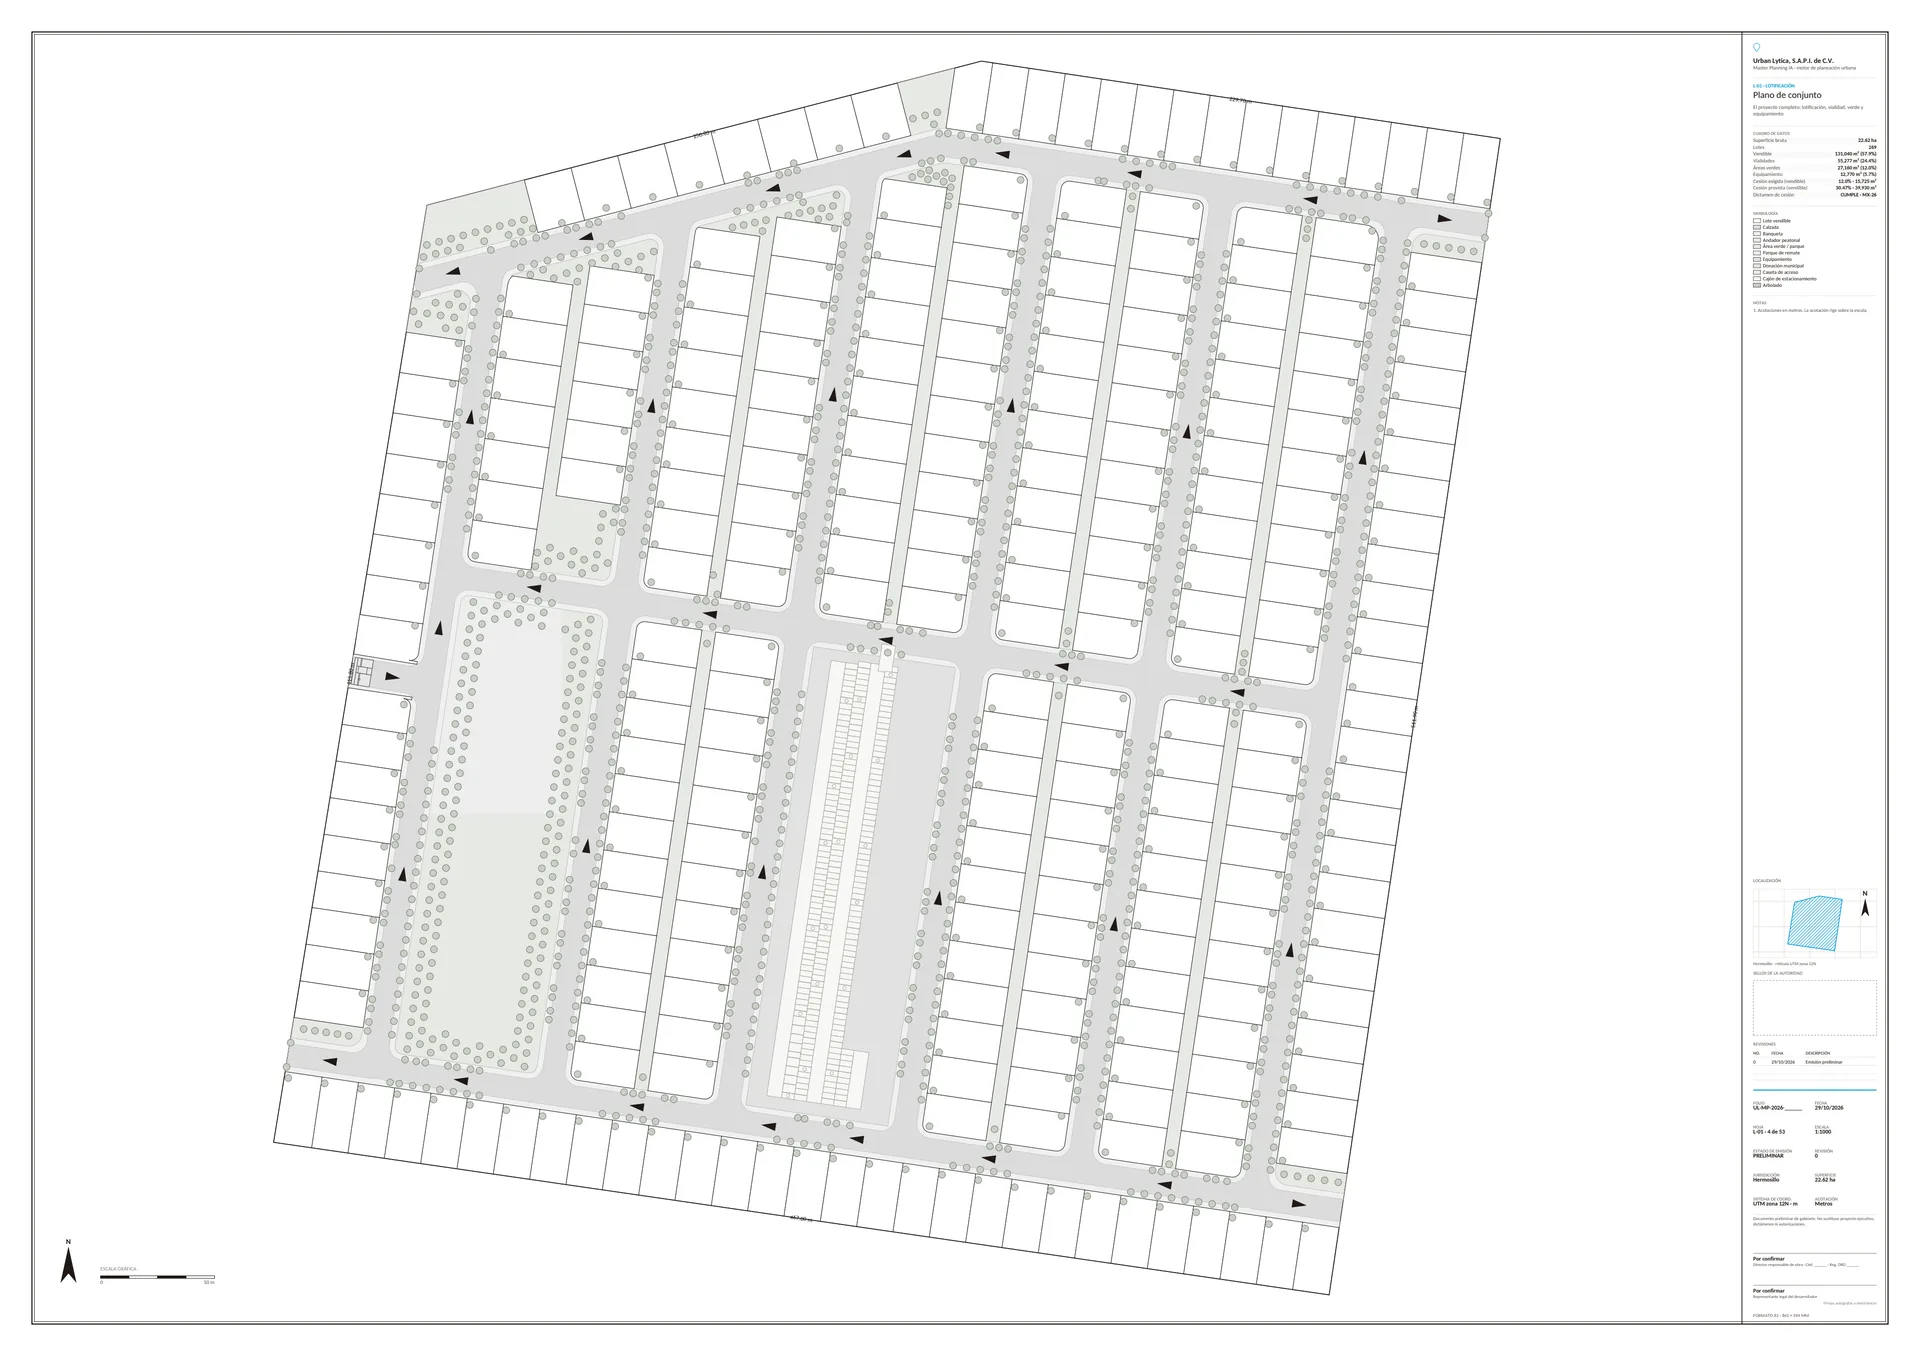
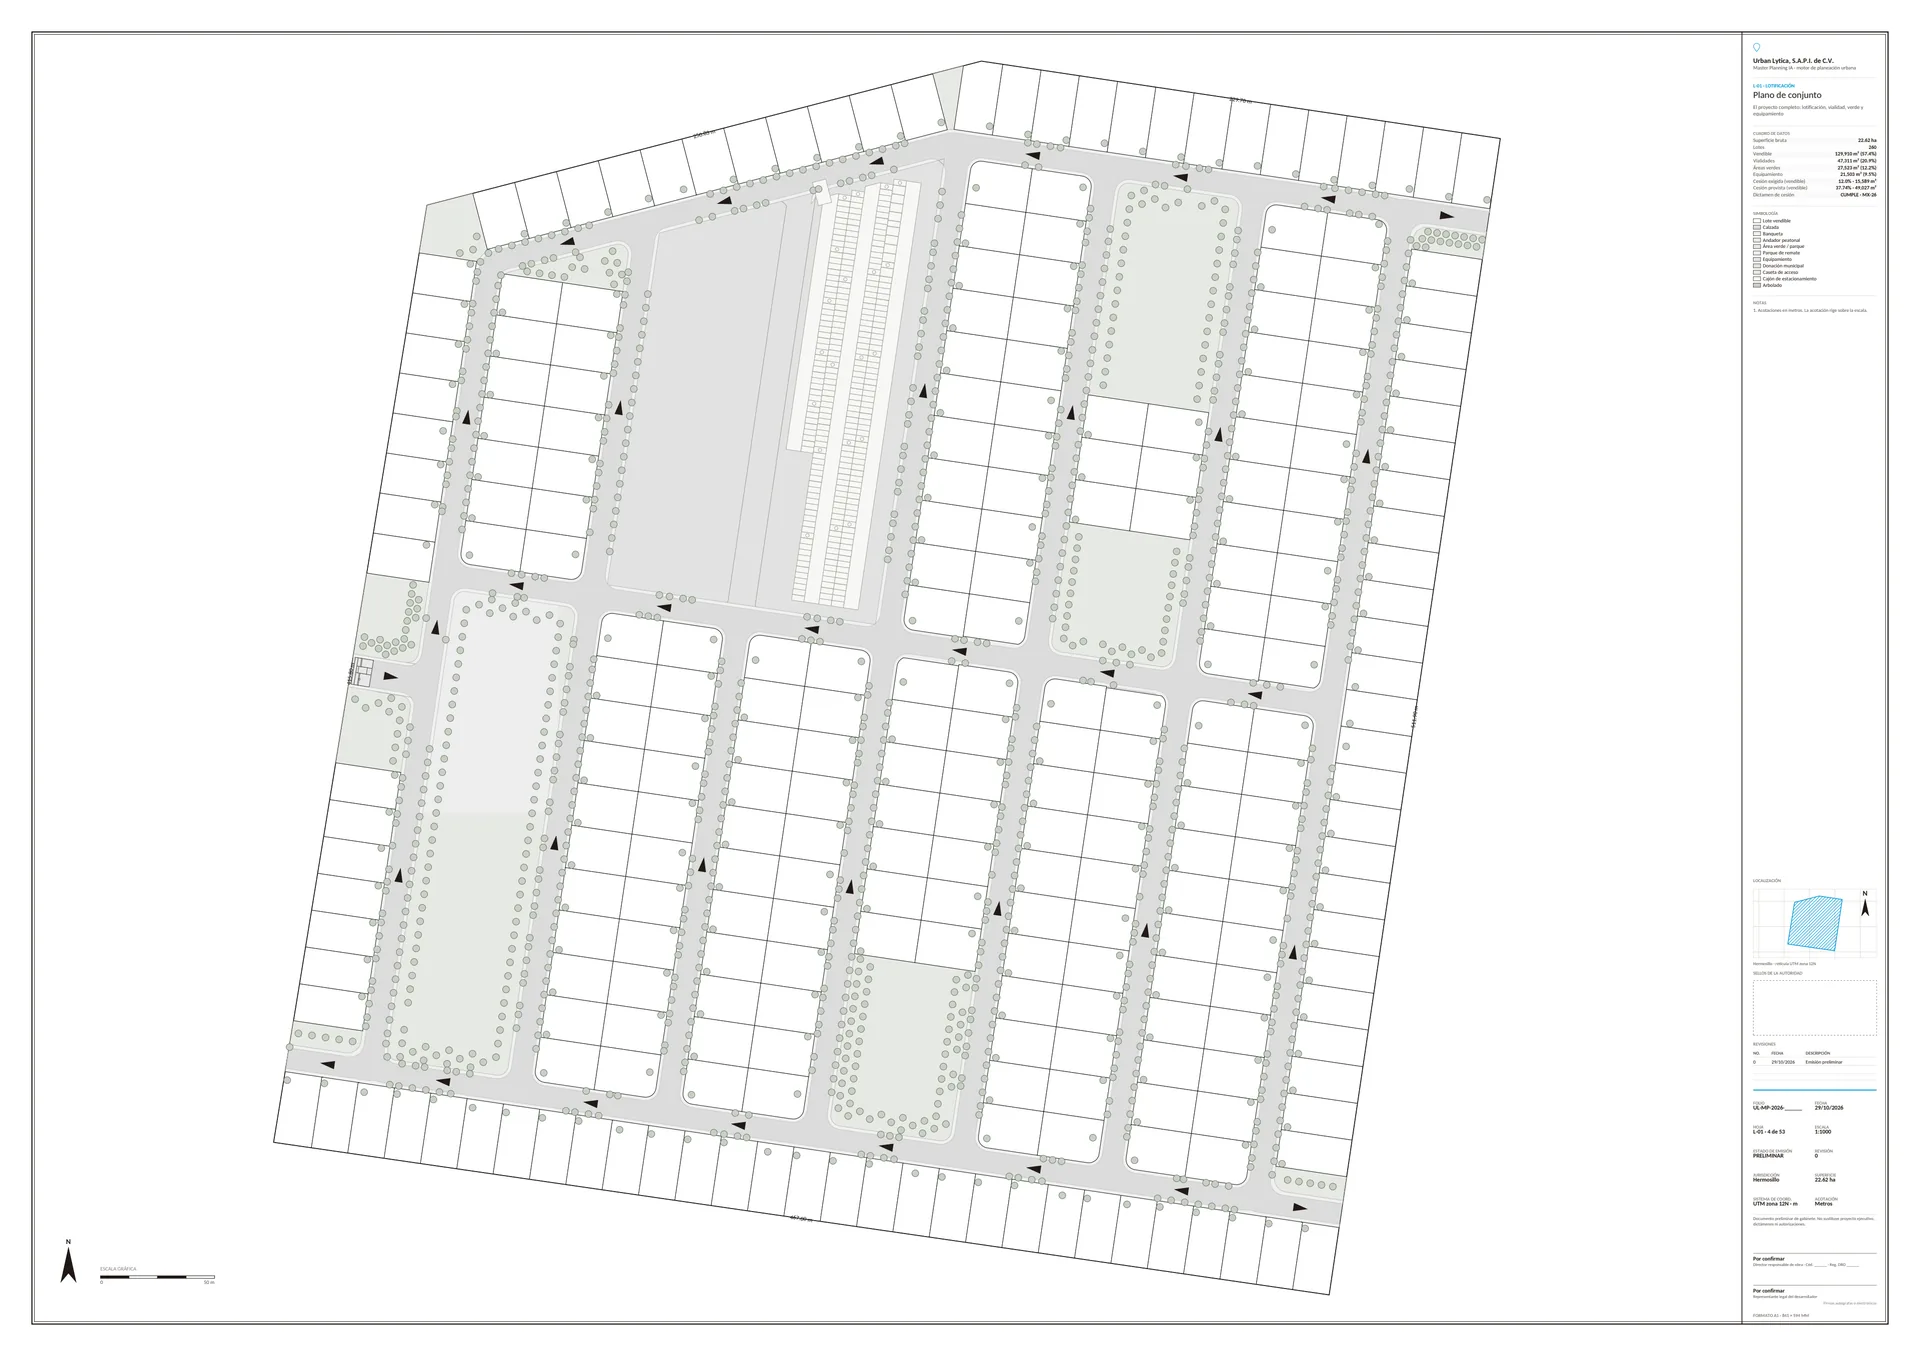
Ejemplo: generación por defecto del motor (260 lotes)
El hero y la lámina L-01 muestran el predio de ejemplo como lo genera
hoy el motor por defecto, sin franja verde entre fondos de lote:
260 lotes, 57.4 % vendible, 20.9 % de vialidad.

Changed region(s): [[0.1562, 0.0619, 0.7812, 0.8982]]

diff --git a/index.html b/index.html
@@ -687,11 +687,11 @@ dialog.legal-doc::backdrop{background:rgba(8,15,24,.62)}
         <img src="assets/producto/hero-plano-1920.webp"
              srcset="assets/producto/hero-plano-1200.webp 1200w, assets/producto/hero-plano-1920.webp 1920w"
              sizes="(max-width: 1240px) 100vw, 1120px" width="1920" height="1200" fetchpriority="high"
-             alt="Captura de la plataforma: condominio de 269 lotes trazado sobre la imagen satelital de un predio de 22.6 hectáreas en Hermosillo, con calles, parques y equipamiento"
+             alt="Captura de la plataforma: condominio de 260 lotes trazado sobre la imagen satelital de un predio de 22.6 hectáreas en Hermosillo, con calles, parques y equipamiento"
              data-i18n-alt="hero.shot.alt">
       </div>
       <figcaption>
-        <span data-i18n-html="hero.shot.cap"><b>Captura real de la plataforma.</b> Predio de 22.6 ha en Hermosillo, Sonora: 269 lotes trazados en régimen de condominio sobre la imagen satelital.</span>
+        <span data-i18n-html="hero.shot.cap"><b>Captura real de la plataforma.</b> Predio de 22.6 ha en Hermosillo, Sonora: 260 lotes trazados en régimen de condominio sobre la imagen satelital.</span>
         <span>29 oct 2026 · © Mapbox · © Maxar</span>
       </figcaption>
     </figure>
@@ -853,9 +853,9 @@ dialog.legal-doc::backdrop{background:rgba(8,15,24,.62)}
           <div class="frame">
             <div class="frame-bar"><span class="frame-title" data-i18n="mod.gen.frame">Vista 2D · indicadores del plan</span></div>
             <div class="kpis">
-              <div><b>57.9%</b><span data-i18n="kpi.sale">vendible</span></div>
-              <div><b>269</b><span data-i18n="kpi.lots">lotes</span></div>
-              <div><b>24.4%</b><span data-i18n="kpi.road">vialidad</span></div>
+              <div><b>57.4%</b><span data-i18n="kpi.sale">vendible</span></div>
+              <div><b>260</b><span data-i18n="kpi.lots">lotes</span></div>
+              <div><b>20.9%</b><span data-i18n="kpi.road">vialidad</span></div>
               <div><b>22.6 ha</b><span data-i18n="kpi.area">superficie</span></div>
             </div>
             <p class="illus real" data-i18n="illus.real.gen">Datos reales del predio de ejemplo · 29 oct 2026</p>
@@ -1055,7 +1055,7 @@ dialog.legal-doc::backdrop{background:rgba(8,15,24,.62)}
           <div class="frame">
             <div class="frame-bar"><span class="frame-title" data-i18n="mod.fin.frame">Resumen del escenario</span></div>
             <div class="frame-body rows">
-              <div class="row"><span class="mark y">&#10003;</span><span class="t" data-i18n="mod.fin.r1">Superficie vendible · 131,040 m²</span></div>
+              <div class="row"><span class="mark y">&#10003;</span><span class="t" data-i18n="mod.fin.r1">Superficie vendible · 129,910 m²</span></div>
               <div class="row"><span class="mark y">&#10003;</span><span class="t" data-i18n="mod.fin.r2">Costo de urbanización · presupuesto paramétrico por partidas</span></div>
               <div class="row"><span class="mark y">&#10003;</span><span class="t" data-i18n="mod.fin.r3">Delta contra el plan base, en pesos y en metros</span></div>
             </div>
@@ -1109,7 +1109,7 @@ dialog.legal-doc::backdrop{background:rgba(8,15,24,.62)}
         <img src="assets/producto/lamina-l01-1920.webp"
              srcset="assets/producto/lamina-l01-1200.webp 1200w, assets/producto/lamina-l01-1920.webp 1920w"
              sizes="(max-width: 1240px) 100vw, 1120px" width="1920" height="1356" loading="lazy"
-             alt="Hoja L-01, plano de conjunto, generada por la plataforma: lotificación con la poligonal acotada, norte, escala gráfica y cartucho con el cuadro de datos de 269 lotes y los campos de firma del director responsable"
+             alt="Hoja L-01, plano de conjunto, generada por la plataforma: lotificación con la poligonal acotada, norte, escala gráfica y cartucho con el cuadro de datos de 260 lotes y los campos de firma del director responsable"
              data-i18n-alt="show.alt">
       </div>
       <figcaption>
@@ -1708,7 +1708,7 @@ var EN = {
 "show.n1.p":"Company, folio, date, sheet, scale, jurisdiction and UTM coordinate system.",
 "show.n1.k":"Title block",
 "show.cap":"<b>Sheet L-01 · Site plan.</b> Generated by the platform, untouched; your engineer of record signs it.",
-"show.alt":"Sheet L-01, site plan, generated by the platform: platting with the dimensioned boundary, north arrow, graphic scale and a title block with the data table for 269 lots and the engineer-of-record signature fields",
+"show.alt":"Sheet L-01, site plan, generated by the platform: platting with the dimensioned boundary, north arrow, graphic scale and a title block with the data table for 260 lots and the engineer-of-record signature fields",
 "show.lead":"Every project comes out as a drawing set with title block, data table and dimensions. This is sheet <b>L-01, site plan</b>, exactly as the platform generates it for the same 22.6 ha site.",
 "show.h2":"A sheet ready for the permit file.",
 "show.eyebrow":"The deliverable",
@@ -1724,8 +1724,8 @@ var EN = {
 "band.s1":"ROU 2025 and PMDU 2023, by zone",
 "band.norm":"Code integrated",
 "band.aria":"Code integrated",
-"hero.shot.cap":"<b>Real screenshot of the platform.</b> 22.6 ha site in Hermosillo, Sonora: 269 lots laid out as a private-street development over the satellite image.",
-"hero.shot.alt":"Screenshot of the platform: a 269-lot private-street development laid out over the satellite image of a 22.6-hectare site in Hermosillo, with streets, parks and facilities",
+"hero.shot.cap":"<b>Real screenshot of the platform.</b> 22.6 ha site in Hermosillo, Sonora: 260 lots laid out as a private-street development over the satellite image.",
+"hero.shot.alt":"Screenshot of the platform: a 260-lot private-street development laid out over the satellite image of a 22.6-hectare site in Hermosillo, with streets, parks and facilities",
 "skip":"Skip to content",
 
 
@@ -1839,7 +1839,7 @@ var EN = {
 "mod.fin.p2":"Every alternative comes with its numbers, so the decision with your investment committee is made on the same study.",
 "mod.fin.c1":"Quantities by trade","mod.fin.c2":"Parametric budget","mod.fin.c4":"Comparative report",
 "mod.fin.frame":"Scenario summary",
-"mod.fin.r1":"Saleable area · 131,040 m²",
+"mod.fin.r1":"Saleable area · 129,910 m²",
 "mod.fin.r2":"Infrastructure cost · parametric budget by trade",
 "mod.fin.r3":"Delta against the baseline plan, in money and in metres",
 "mod.ent.t":"Deliverables and sign-off","mod.ent.s":"What we deliver, and who signs it",
